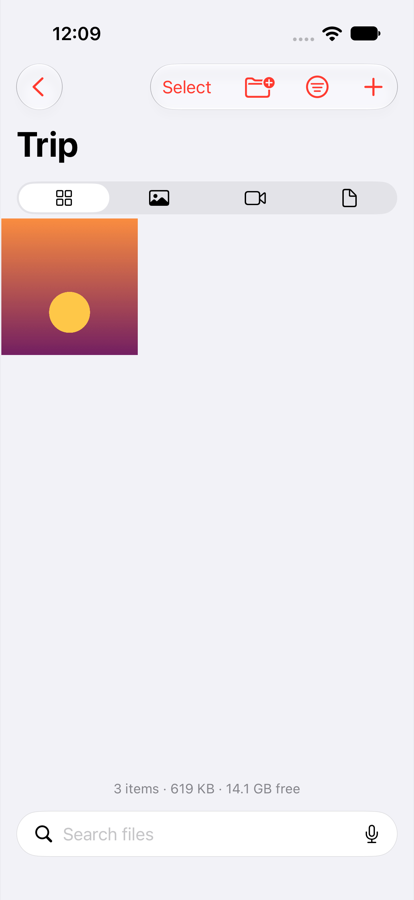
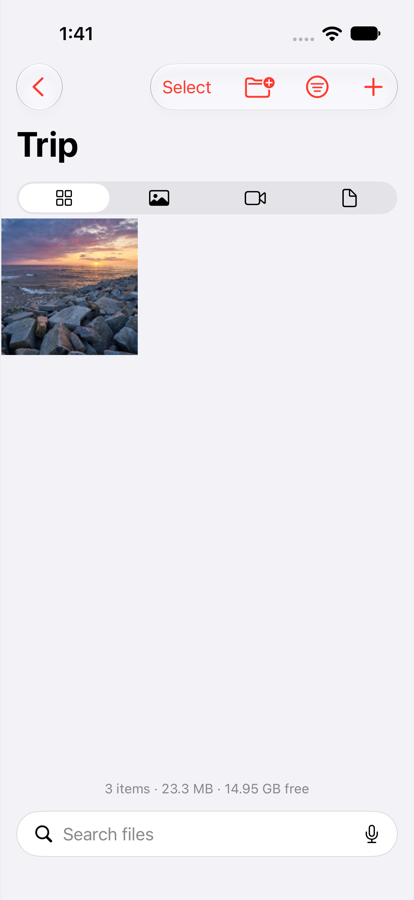
Replace the drawn sample files with real scenic photos around 6,000 pixels.

diff --git a/NoteLy/ViewModels/VaultFilesViewModel.swift b/NoteLy/ViewModels/VaultFilesViewModel.swift
@@ -972,18 +972,21 @@ extension VaultFilesViewModel {
         library = .empty
         library.folders = folders
         items = []
-        let specs: [(GuidePicture, String, UUID?)] = [
-            (.harbor, "Harbor.jpg", nil),
-            (.window, "Window.jpg", nil),
-            (.sunset, "Sunset.jpg", trip.id)
+        let specs: [(String, UUID?)] = [
+            ("Harbor.jpg", nil),
+            ("Window.jpg", nil),
+            ("Sunset.jpg", trip.id)
         ]
         for spec in specs {
-            guard let url = spec.0.write(named: spec.1) else { continue }
+            guard let bundled = Self.guidePhotoURL(spec.0) else { continue }
+            let url = FileManager.default.temporaryDirectory.appendingPathComponent(spec.0)
+            try? FileManager.default.removeItem(at: url)
+            guard (try? FileManager.default.copyItem(at: bundled, to: url)) != nil else { continue }
             defer { try? FileManager.default.removeItem(at: url) }
             guard var item = try? store.importFile(
                 at: url,
-                name: spec.1,
-                folderID: spec.2,
+                name: spec.0,
+                folderID: spec.1,
                 companionID: nil,
                 using: master,
                 shouldContinue: { true }
@@ -991,7 +994,7 @@ extension VaultFilesViewModel {
             let meta = ThumbnailMaker.dimensions(url: url, type: item.type)
             item.pixelWidth = meta.width == 0 ? nil : meta.width
             item.pixelHeight = meta.height == 0 ? nil : meta.height
-            if let jpeg = UIImage(contentsOfFile: url.path)?.jpegData(compressionQuality: 0.8) {
+            if let jpeg = ThumbnailMaker.photoThumbnail(from: url) {
                 try? store.saveThumbnail(jpeg, id: item.id, using: master)
                 item.hasThumbnail = true
             }
@@ -1001,68 +1004,14 @@ extension VaultFilesViewModel {
         persist()
         refreshSummary()
     }
-}
 
-private enum GuidePicture {
-    case harbor
-    case sunset
-    case window
-
-    func write(named name: String) -> URL? {
-        let renderer = UIGraphicsImageRenderer(size: CGSize(width: 800, height: 800))
-        let image = renderer.image { context in
-            let bounds = CGRect(x: 0, y: 0, width: 800, height: 800)
-            switch self {
-            case .harbor:
-                drawGradient(in: bounds, colors: [
-                    UIColor(red: 0.45, green: 0.72, blue: 0.95, alpha: 1),
-                    UIColor(red: 0.05, green: 0.28, blue: 0.55, alpha: 1)
-                ], context: context.cgContext)
-                UIColor(red: 1, green: 0.92, blue: 0.55, alpha: 1).setFill()
-                UIBezierPath(ovalIn: CGRect(x: 520, y: 90, width: 120, height: 120)).fill()
-                UIColor(red: 0.95, green: 0.97, blue: 1, alpha: 0.9).setFill()
-                let sail = UIBezierPath()
-                sail.move(to: CGPoint(x: 250, y: 520))
-                sail.addLine(to: CGPoint(x: 390, y: 280))
-                sail.addLine(to: CGPoint(x: 400, y: 520))
-                sail.close()
-                sail.fill()
-            case .sunset:
-                drawGradient(in: bounds, colors: [
-                    UIColor(red: 0.98, green: 0.55, blue: 0.25, alpha: 1),
-                    UIColor(red: 0.45, green: 0.12, blue: 0.38, alpha: 1)
-                ], context: context.cgContext)
-                UIColor(red: 1, green: 0.78, blue: 0.28, alpha: 1).setFill()
-                UIBezierPath(ovalIn: CGRect(x: 280, y: 430, width: 240, height: 240)).fill()
-            case .window:
-                UIColor(red: 0.93, green: 0.88, blue: 0.8, alpha: 1).setFill()
-                UIBezierPath(rect: bounds).fill()
-                UIColor(red: 0.55, green: 0.78, blue: 0.95, alpha: 1).setFill()
-                UIBezierPath(roundedRect: CGRect(x: 180, y: 80, width: 440, height: 460), cornerRadius: 8).fill()
-                UIColor(red: 0.25, green: 0.55, blue: 0.32, alpha: 1).setFill()
-                UIBezierPath(ovalIn: CGRect(x: 300, y: 560, width: 200, height: 160)).fill()
-            }
-        }
-        guard let data = image.jpegData(compressionQuality: 0.9) else { return nil }
-        let url = FileManager.default.temporaryDirectory.appendingPathComponent(name)
-        do {
-            try data.write(to: url, options: .atomic)
+    private static func guidePhotoURL(_ name: String) -> URL? {
+        let base = (name as NSString).deletingPathExtension
+        let ext = (name as NSString).pathExtension
+        if let url = Bundle.main.url(forResource: base, withExtension: ext, subdirectory: "GuidePhotos") {
             return url
-        } catch {
-            return nil
         }
-    }
-
-    private func drawGradient(in bounds: CGRect, colors: [UIColor], context: CGContext) {
-        let space = CGColorSpaceCreateDeviceRGB()
-        let cgColors = colors.map(\.cgColor) as CFArray
-        guard let gradient = CGGradient(colorsSpace: space, colors: cgColors, locations: [0, 1]) else { return }
-        context.drawLinearGradient(
-            gradient,
-            start: CGPoint(x: bounds.midX, y: bounds.minY),
-            end: CGPoint(x: bounds.midX, y: bounds.maxY),
-            options: []
-        )
+        return Bundle.main.url(forResource: base, withExtension: ext)
     }
 }
 #endif

diff --git a/NoteLyUITests/GuideScreenshotUITests.swift b/NoteLyUITests/GuideScreenshotUITests.swift
@@ -75,22 +75,22 @@ final class GuideScreenshotUITests: XCTestCase {
         app.launchEnvironment = ["NOTELY_UITEST_PHRASE": "harbor-lantern"]
         app.launch()
 
-        XCTAssertTrue(app.staticTexts["Hidden Folders"].waitForExistence(timeout: 12))
+        XCTAssertTrue(app.staticTexts["Hidden Folders"].waitForExistence(timeout: 40))
         XCTAssertTrue(app.staticTexts["3"].waitForExistence(timeout: 8))
         snap("09-vault")
 
         app.staticTexts["Files"].firstMatch.tap()
-        XCTAssertTrue(app.staticTexts["Trip"].waitForExistence(timeout: 8))
+        XCTAssertTrue(app.buttons["Trip, 1"].waitForExistence(timeout: 8))
         XCTAssertTrue(app.buttons["Harbor.jpg"].waitForExistence(timeout: 8))
         sleep(1)
         snap("12-files")
 
         app.buttons["Trip, 1"].tap()
-        XCTAssertTrue(app.buttons["Sunset.jpg"].waitForExistence(timeout: 6))
+        XCTAssertTrue(app.buttons["Sunset.jpg"].waitForExistence(timeout: 8))
         sleep(1)
         snap("12-trip")
-        app.buttons["Files"].firstMatch.tap()
-        XCTAssertTrue(app.buttons["Harbor.jpg"].waitForExistence(timeout: 6))
+        app.navigationBars["Trip"].buttons["Files"].tap()
+        XCTAssertTrue(app.buttons["Harbor.jpg"].waitForExistence(timeout: 8))
 
         app.buttons["Add"].tap()
         app.buttons["Photos or Videos"].tap()
@@ -102,7 +102,8 @@ final class GuideScreenshotUITests: XCTestCase {
 
         let photo = app.buttons["Harbor.jpg"]
         XCTAssertTrue(photo.waitForExistence(timeout: 4))
-        photo.coordinate(withNormalizedOffset: CGVector(dx: 0.5, dy: 0.5)).press(forDuration: 1.5)
+        sleep(2)
+        photo.coordinate(withNormalizedOffset: CGVector(dx: 0.5, dy: 0.5)).press(forDuration: 2)
         sleep(1)
         snap("19-photo-menu")
     }
@@ -141,7 +142,7 @@ final class GuideScreenshotUITests: XCTestCase {
         app.launchEnvironment = ["NOTELY_UITEST_PHRASE": "harbor-lantern"]
         app.launch()
 
-        XCTAssertTrue(app.staticTexts["Hidden Folders"].waitForExistence(timeout: 12))
+        XCTAssertTrue(app.staticTexts["Hidden Folders"].waitForExistence(timeout: 40))
         sleep(1)
         snap("dark-hidden")
         app.staticTexts["Files"].firstMatch.tap()

diff --git a/NoteLy/Views/Vault/VaultFilesView.swift b/NoteLy/Views/Vault/VaultFilesView.swift
@@ -331,24 +331,24 @@ struct VaultFilesView: View {
     }
 
     private func folderLink(_ folder: VaultFolder) -> some View {
-        Button {
-            open(folder)
-        } label: {
-            HStack(spacing: 12) {
-                Image(systemName: folder.isPinned ? "pin.fill" : (folder.hasPasscode ? "lock.fill" : "folder.fill"))
-                    .foregroundStyle(folder.isPinned ? Theme.accent : Theme.vault)
-                    .frame(width: 28)
-                Text(folder.name)
-                    .foregroundStyle(Color(.label))
-                Spacer()
-                Text("\(model.itemCount(in: folder.id))")
-                    .foregroundStyle(Color(.secondaryLabel))
-                Image(systemName: "chevron.right")
-                    .font(.caption.weight(.semibold))
-                    .foregroundStyle(.tertiary)
-            }
+        HStack(spacing: 12) {
+            Image(systemName: folder.isPinned ? "pin.fill" : (folder.hasPasscode ? "lock.fill" : "folder.fill"))
+                .foregroundStyle(folder.isPinned ? Theme.accent : Theme.vault)
+                .frame(width: 28)
+            Text(folder.name)
+                .foregroundStyle(Color(.label))
+            Spacer()
+            Text("\(model.itemCount(in: folder.id))")
+                .foregroundStyle(Color(.secondaryLabel))
+            Image(systemName: "chevron.right")
+                .font(.caption.weight(.semibold))
+                .foregroundStyle(.tertiary)
         }
-        .buttonStyle(RowButtonStyle())
+        .contentShape(Rectangle())
+        .onTapGesture { open(folder) }
+        .accessibilityElement(children: .combine)
+        .accessibilityAddTraits(.isButton)
+        .accessibilityLabel("\(folder.name), \(model.itemCount(in: folder.id))")
         .swipeActions(edge: .trailing, allowsFullSwipe: false) {
             Button(role: .destructive) { pendingFolderDelete = folder } label: {
                 Label("Delete", systemImage: "trash")

diff --git a/NoteLy/Services/ThumbnailMaker.swift b/NoteLy/Services/ThumbnailMaker.swift
@@ -6,6 +6,10 @@ import UIKit
 import UniformTypeIdentifiers
 
 enum ThumbnailMaker {
+    static func photoThumbnail(from url: URL) -> Data? {
+        imageThumbnail(url)
+    }
+
     static func jpeg(from url: URL, type: VaultMediaType) async -> Data? {
         switch type {
         case .photo:

diff --git a/README.md b/README.md
@@ -44,7 +44,7 @@ Type the phrase into Search and submit it, then confirm with Face ID or the 6-di
 | --- | --- |
 | ![Private note](screenshots/11-private-note.png) | ![Files with folders and photos](screenshots/12-files.png) |
 
-All shows folders and photos together. Photos, Videos, and Files show matching items from every folder and hide the folder list. Trip holds one photo. Receipts is empty.
+All shows folders and photos together. Photos, Videos, and Files show matching items from every folder and hide the folder list. The sample photos are real scenes, about 6,000 to 6,700 pixels wide: a harbor, a cabin window, and a sunset. Trip holds the sunset. Receipts is empty.
 
 | Inside Trip | Add: Move or Copy |
 | --- | --- |
